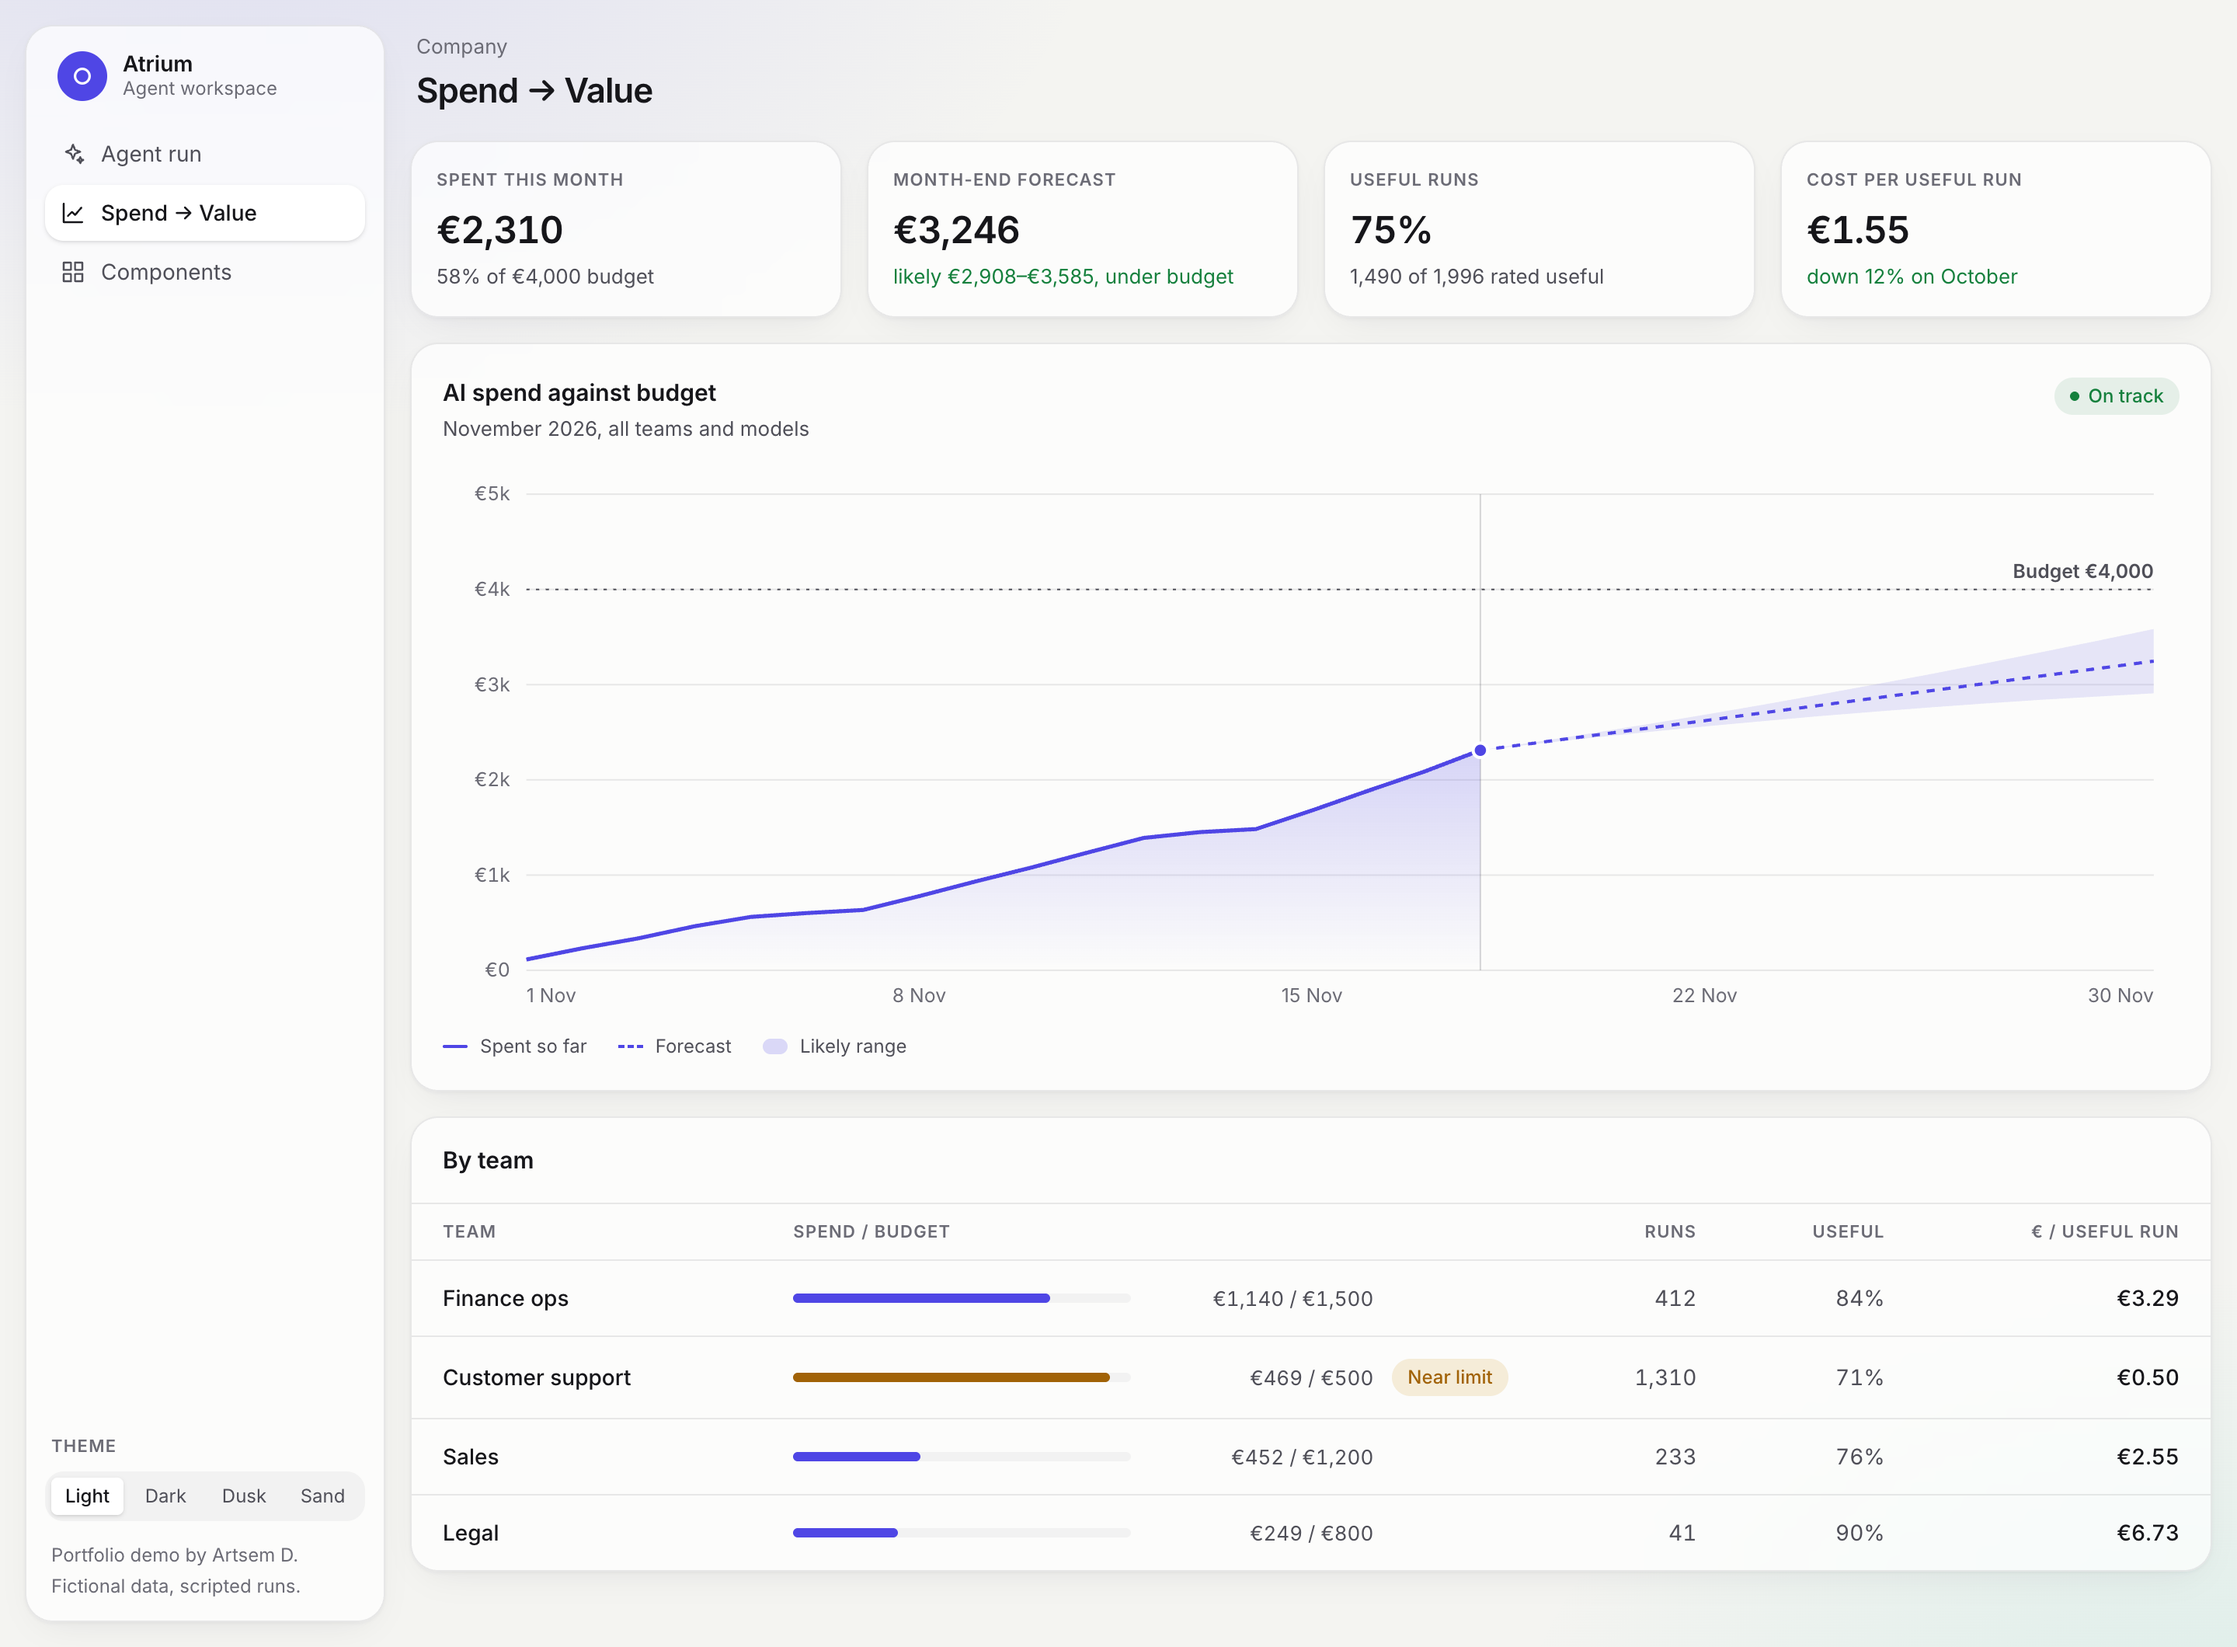
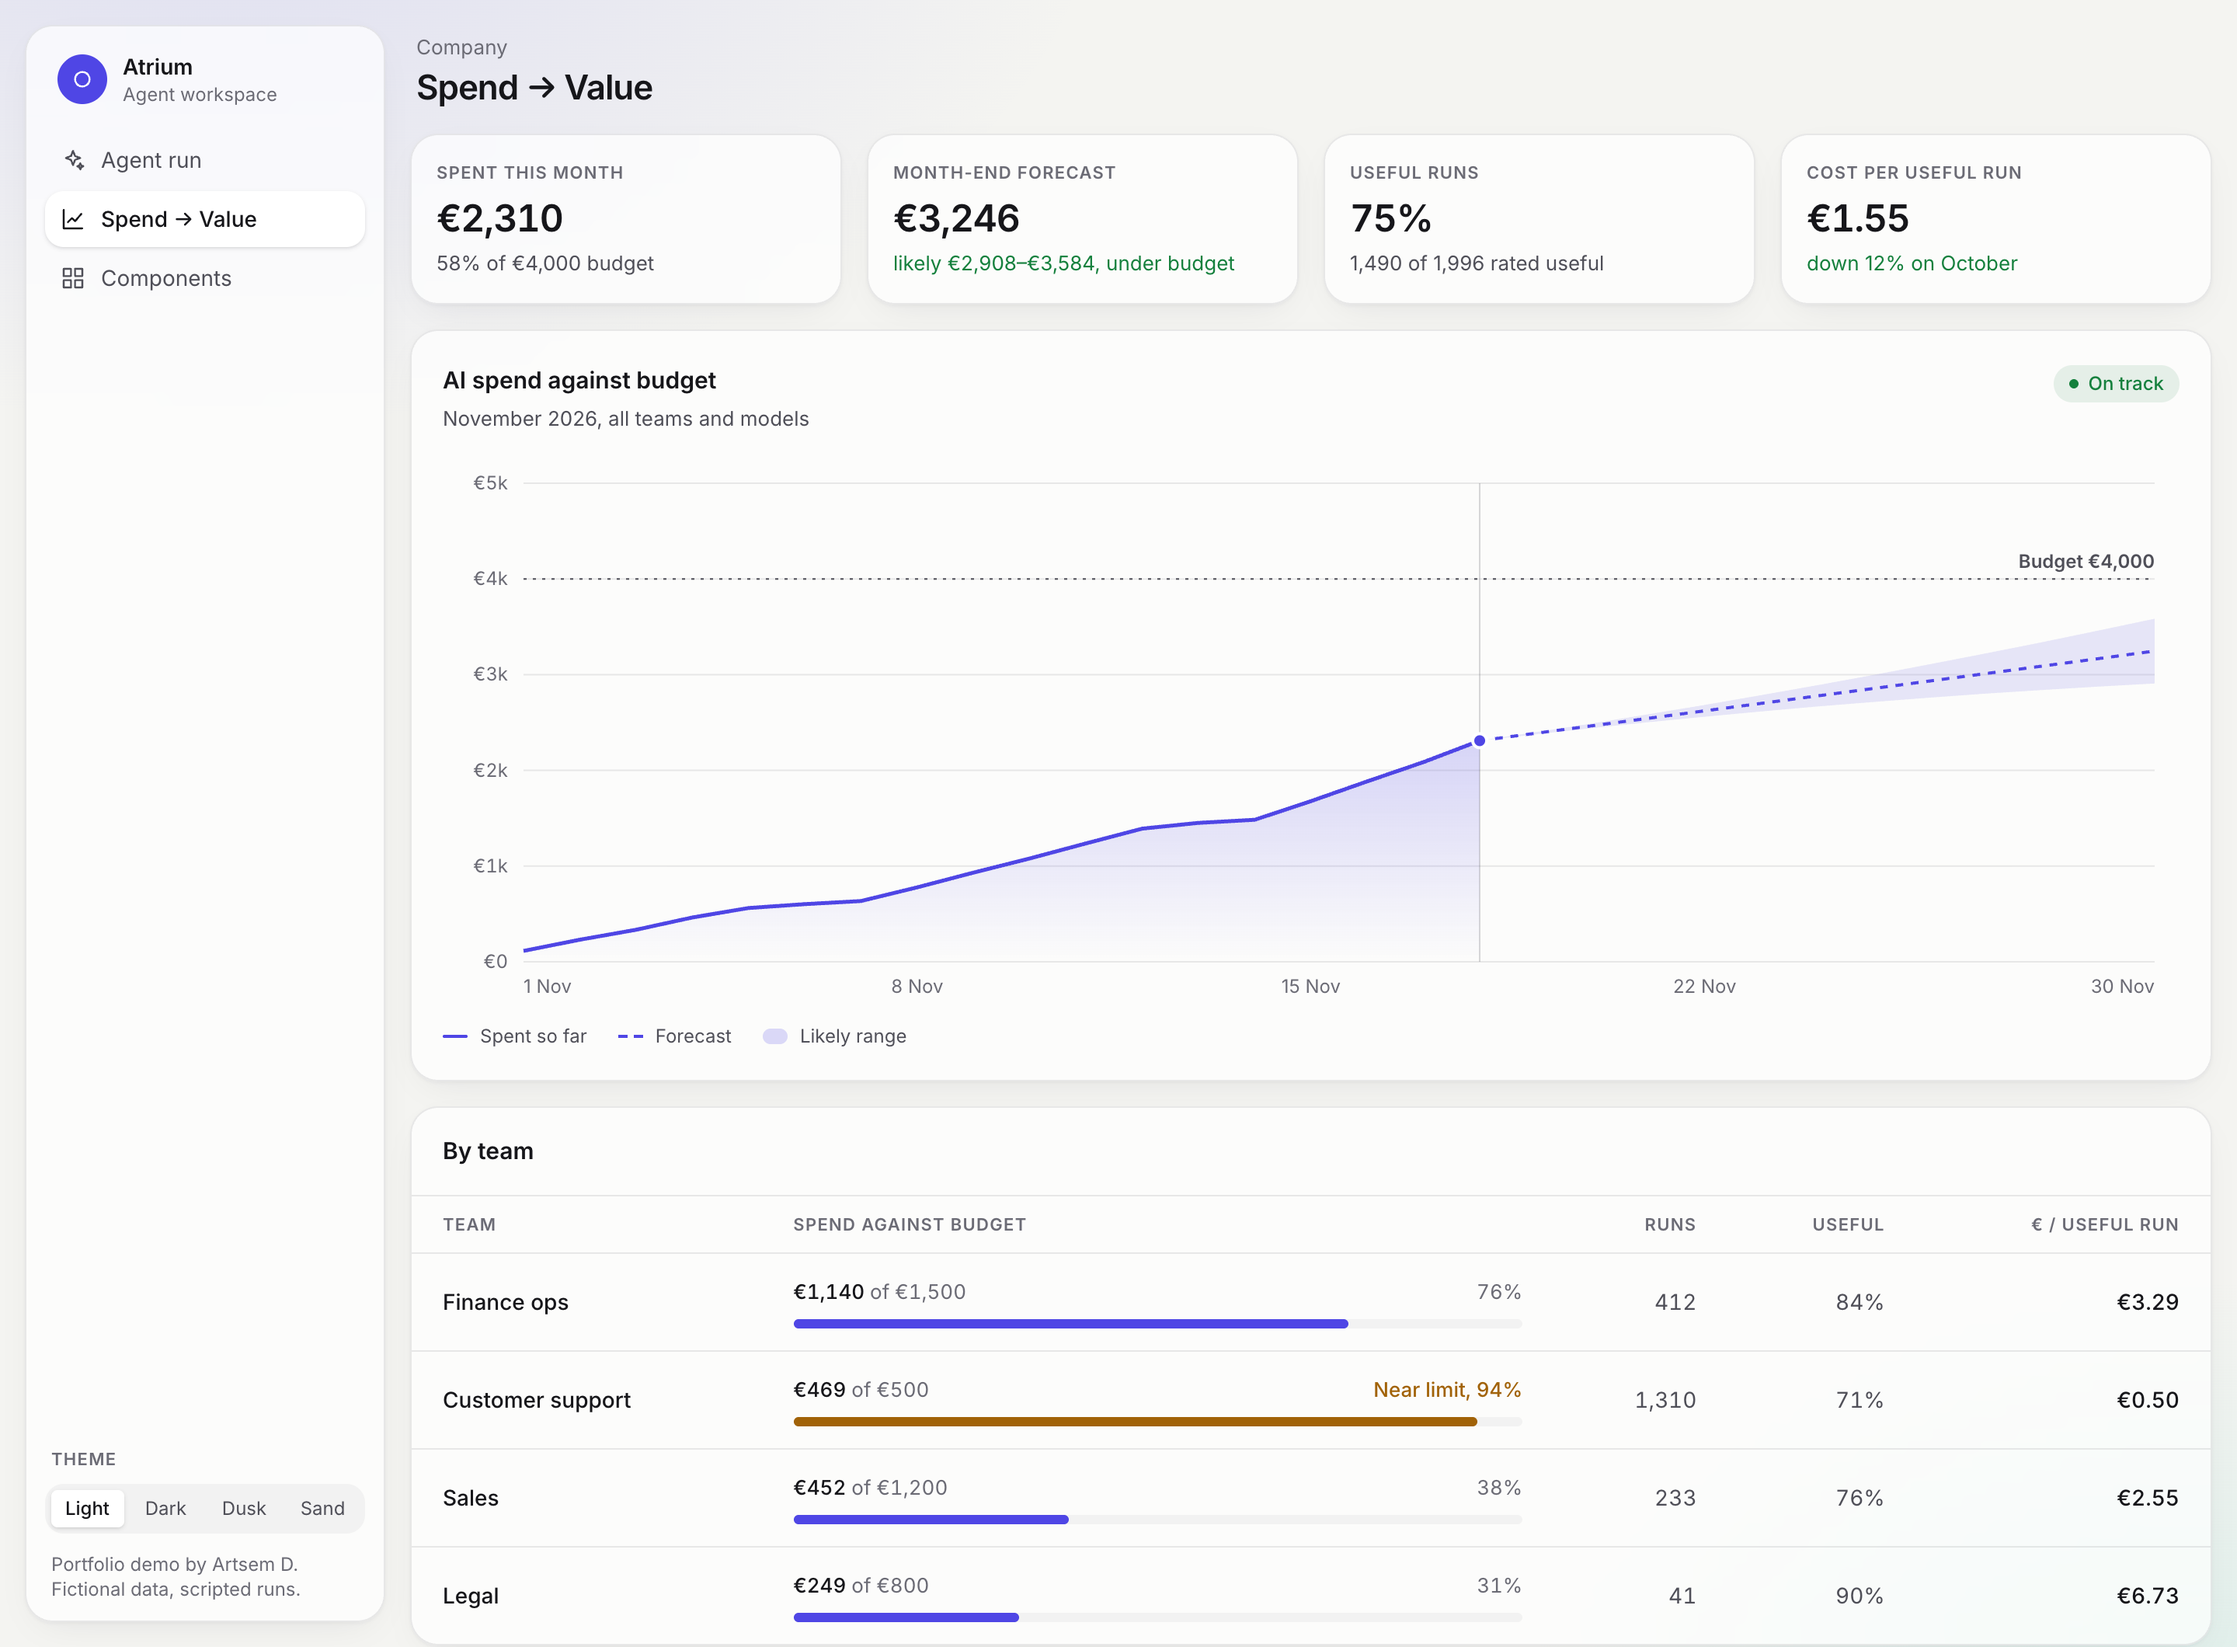
Keep the run side column in view on desktop; refresh README screenshots
The access, budget and model cards are sticky from lg, so a long run
doesn't leave the right side of the page empty.

diff --git a/src/views/RunView.vue b/src/views/RunView.vue
@@ -56,7 +56,8 @@ onBeforeUnmount(run.stop)
         />
       </section>
 
-      <aside class="grid gap-4">
+      <!-- Sticky on desktop: what the agent can touch and what it costs stay in view through a long run -->
+      <aside class="grid gap-4 lg:sticky lg:top-4">
         <RunAccessCard :access="ACCESS" />
         <RunBudgetCard :team="TEAM" :run-cost-eur="run.costEur.value" />
         <RunModelCard :model="AGENT.model" />
